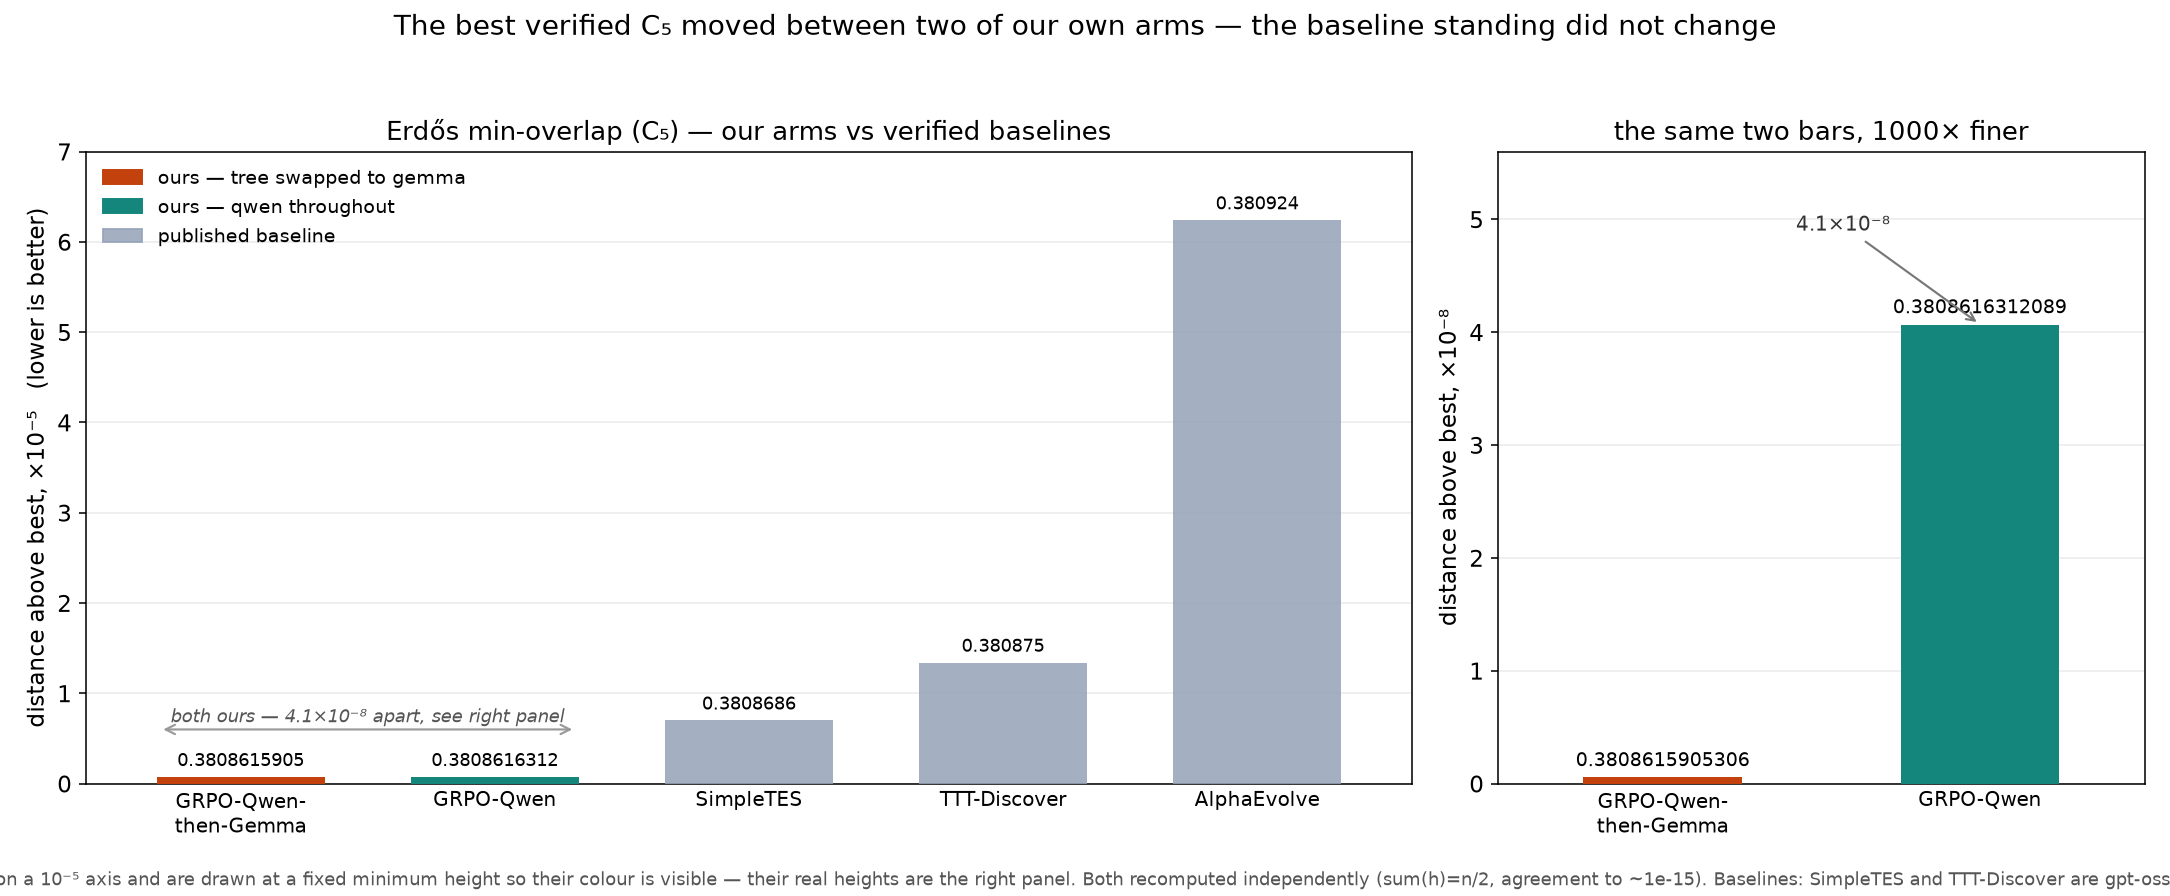
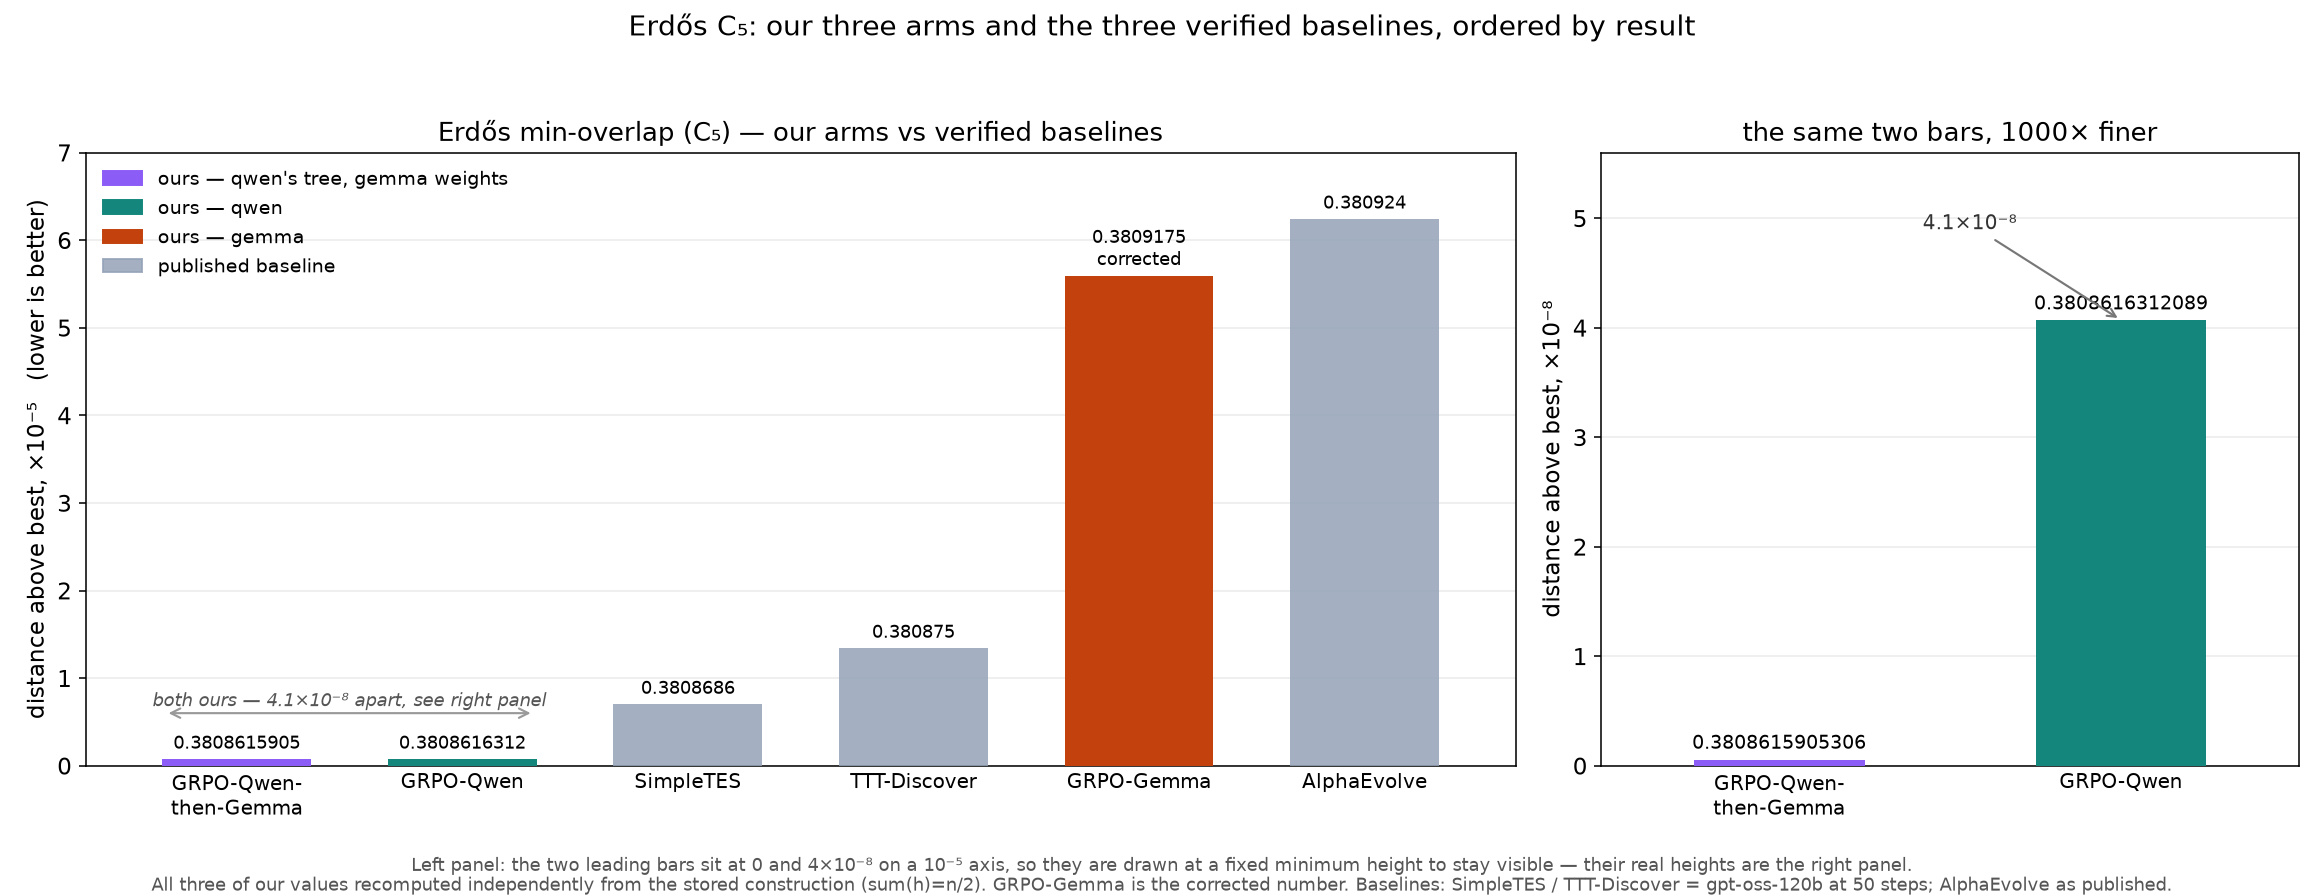
erdos standing chart: add GRPO-Gemma, order bars by result
Ordered by value rather than grouped ours-first, because gemma-from-cold
finishes behind SimpleTES and TTT-Discover and ours-first grouping would
bury that. Third colour separates the tree-swap arm (qwen's tree, gemma
weights) from gemma trained from cold -- they are last and first here, and
sharing a colour read as one thing.

diff --git a/results/erdos-records/make_record_standing.py b/results/erdos-records/make_record_standing.py
@@ -9,19 +9,22 @@ otherwise be a hairline.
 import matplotlib; matplotlib.use("Agg")
 import matplotlib.pyplot as plt
 
-QWEN, GEMMA, BASE = "#14867c", "#c2410c", "#94a3b8"
+QWEN, GEMMA, SWAP, BASE = "#14867c", "#c2410c", "#8b5cf6", "#94a3b8"
 BEST = 0.38086159053056806
 
+# Ordered by result, not by whose it is -- our gemma GRPO arm finishes behind two
+# published baselines, and grouping ours-first would bury that.
 rows = [
-    ("GRPO-Qwen-\nthen-Gemma", 0.38086159053056806, GEMMA, "ours"),
+    ("GRPO-Qwen-\nthen-Gemma", 0.38086159053056806, SWAP,  "ours"),
     ("GRPO-Qwen",              0.3808616312089098, QWEN,  "ours"),
     ("SimpleTES",              0.3808686,          BASE,  "published"),
     ("TTT-Discover",           0.380875,           BASE,  "published"),
+    ("GRPO-Gemma",             0.380917549842528,  GEMMA, "ours"),
     ("AlphaEvolve",            0.380924,           BASE,  "published"),
 ]
 
 plt.rcParams.update({"font.size": 12})
-fig, (axL, axR) = plt.subplots(1, 2, figsize=(15.5, 6.4),
+fig, (axL, axR) = plt.subplots(1, 2, figsize=(16.6, 6.4),
                                gridspec_kw={"width_ratios": [2.05, 1]})
 fig.patch.set_facecolor("white")
 
@@ -34,15 +37,18 @@ for x, (name, v, c, kind) in zip(xs, rows):
     h = (v - BEST) * 1e5
     axL.bar(x, max(h, FLOOR), width=0.66, color=c, zorder=3,
             alpha=1.0 if kind == "ours" else 0.85)
-    lab = f"{v:.10f}" if kind == "ours" else f"{v:.7f}".rstrip("0")
+    lab = f"{v:.10f}" if h < 0.5 else f"{v:.7f}".rstrip("0")
+    if name == "GRPO-Gemma":
+        lab += "\ncorrected"
     axL.text(x, max(h, FLOOR) + 0.12, lab, ha="center", fontsize=9.5)
 axL.annotate("", xy=(-0.32, 0.60), xytext=(1.32, 0.60),
              arrowprops=dict(arrowstyle="<->", color="#999", lw=1.1))
 axL.text(0.5, 0.68, "both ours — 4.1×10⁻⁸ apart, see right panel",
          ha="center", fontsize=9.5, style="italic", color="#555")
 axL.legend(handles=[
-    plt.Rectangle((0, 0), 1, 1, color=GEMMA, label="ours — tree swapped to gemma"),
-    plt.Rectangle((0, 0), 1, 1, color=QWEN, label="ours — qwen throughout"),
+    plt.Rectangle((0, 0), 1, 1, color=SWAP, label="ours — qwen's tree, gemma weights"),
+    plt.Rectangle((0, 0), 1, 1, color=QWEN, label="ours — qwen"),
+    plt.Rectangle((0, 0), 1, 1, color=GEMMA, label="ours — gemma"),
     plt.Rectangle((0, 0), 1, 1, color=BASE, alpha=0.85, label="published baseline"),
 ], loc="upper left", frameon=False, fontsize=10)
 axL.set_xticks(list(xs))
@@ -69,15 +75,17 @@ axR.annotate("4.1×10⁻⁸", xy=(1, 4.07), xytext=(0.42, 4.9),
              fontsize=10.5, color="#333",
              arrowprops=dict(arrowstyle="->", color="#777", lw=1.1))
 
-fig.suptitle("The best verified C₅ moved between two of our own arms — "
-             "the baseline standing did not change", fontsize=14.5, y=0.985)
-fig.text(0.5, 0.012,
-         "Left panel: our two bars sit at 0 and 4×10⁻⁸ on a 10⁻⁵ axis and are drawn at a fixed minimum "
-         "height so their colour is visible — their real heights are the right panel. "
-         "Both recomputed independently (sum(h)=n/2, agreement to ~1e-15). "
-         "Baselines: SimpleTES and TTT-Discover are gpt-oss-120b at 50 steps; AlphaEvolve as published.",
+fig.suptitle("Erdős C₅: our three arms and the three verified baselines, ordered by result",
+             fontsize=14.5, y=0.985)
+fig.text(0.5, 0.028,
+         "Left panel: the two leading bars sit at 0 and 4×10⁻⁸ on a 10⁻⁵ axis, so they are drawn at a fixed "
+         "minimum height to stay visible — their real heights are the right panel.",
          ha="center", fontsize=9.5, color="#555")
-fig.tight_layout(rect=[0, 0.035, 1, 0.955])
+fig.text(0.5, 0.006,
+         "All three of our values recomputed independently from the stored construction (sum(h)=n/2). "
+         "GRPO-Gemma is the corrected number. Baselines: SimpleTES / TTT-Discover = gpt-oss-120b at 50 steps; AlphaEvolve as published.",
+         ha="center", fontsize=9.5, color="#555")
+fig.tight_layout(rect=[0, 0.055, 1, 0.955])
 out = "/n/fs/vision-mix/sk7524/SkyRLTpu-league/results/erdos-records/record_standing.png"
 fig.savefig(out, dpi=140, facecolor="white")
 print("saved", out)
